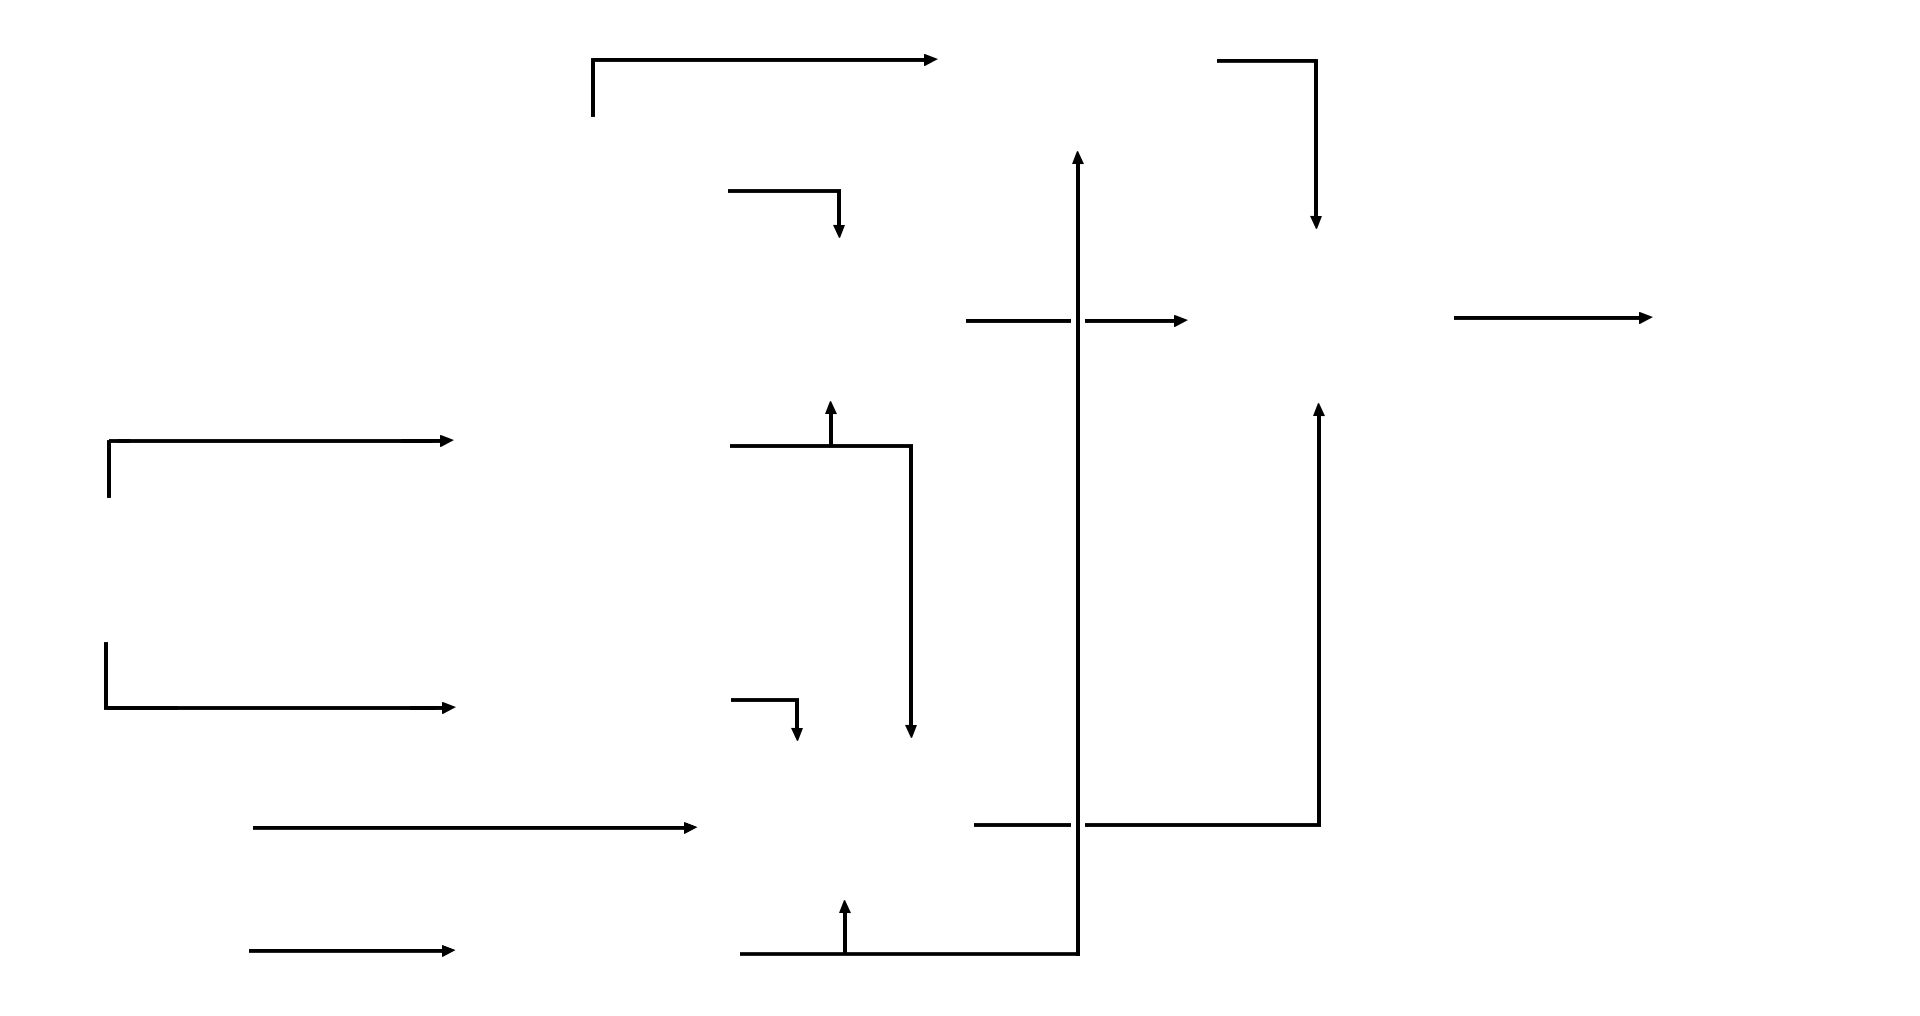
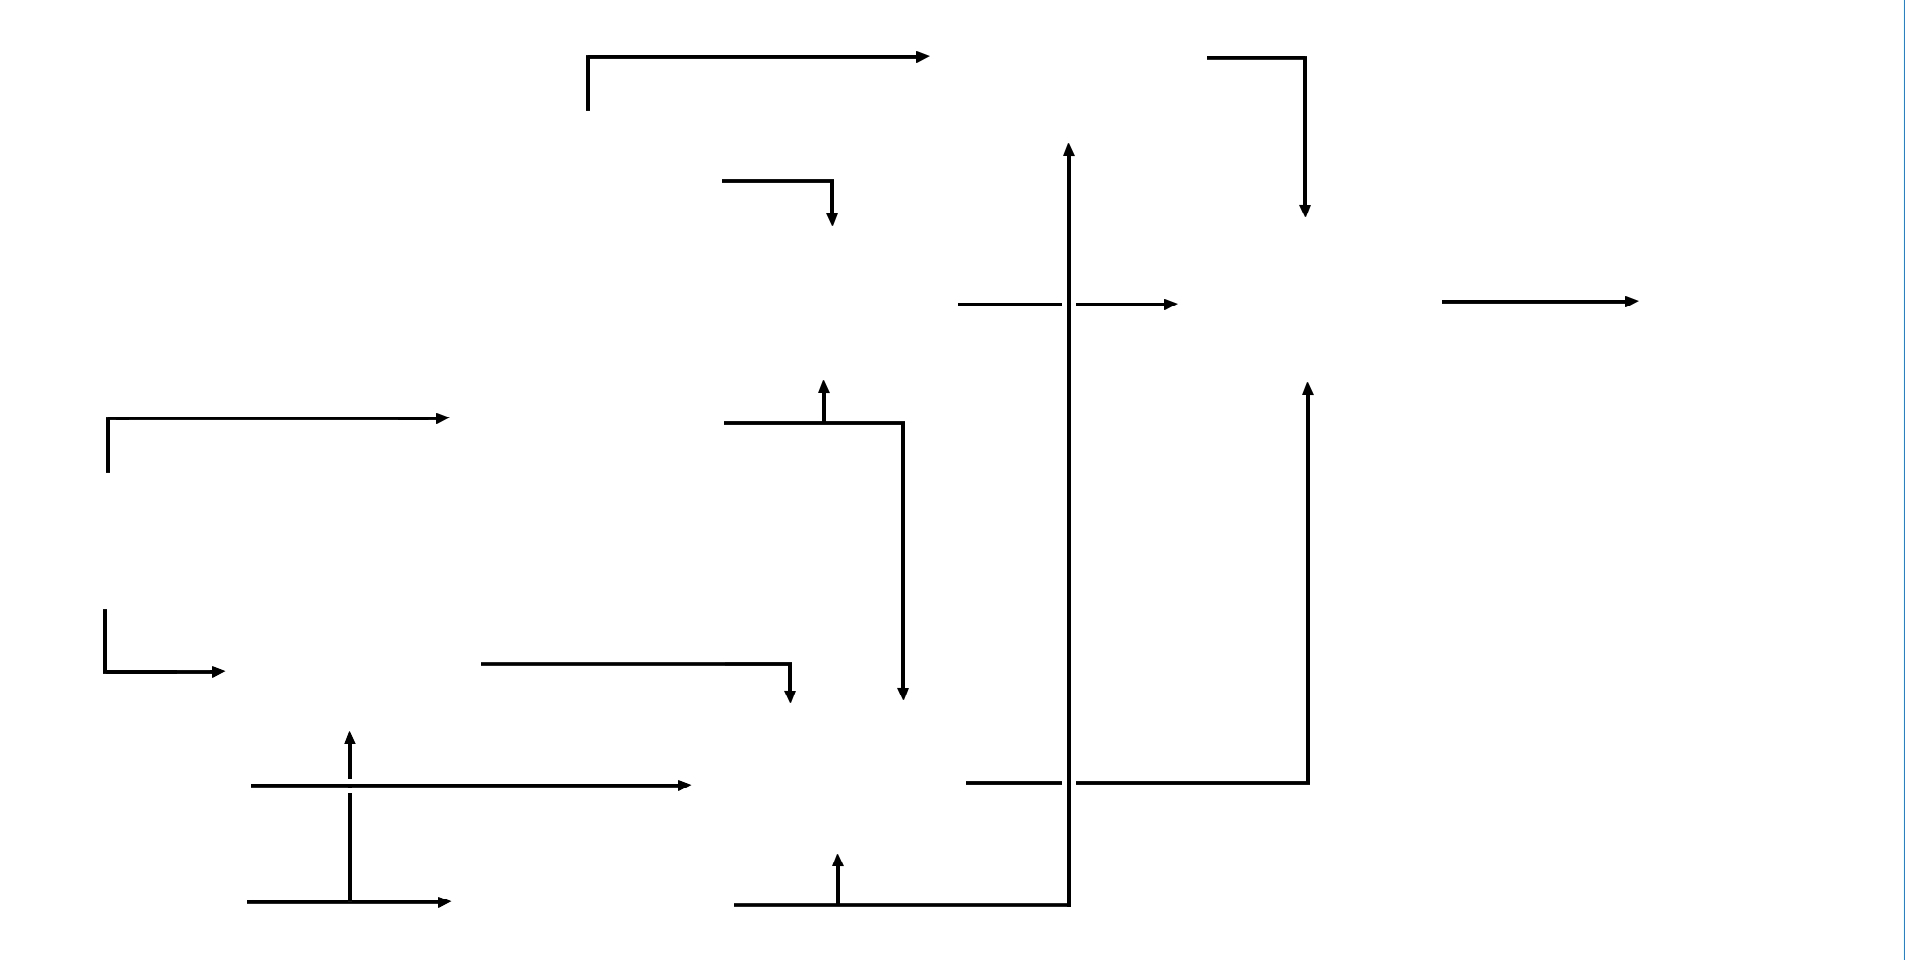
correction du workflow (critères prédecesseur de scénarios génériques)

diff --git a/src/abstraction/modules/SourcesDeMenaces.java b/src/abstraction/modules/SourcesDeMenaces.java
@@ -50,12 +50,6 @@ public class SourcesDeMenaces extends Module {
 	 */
 	public SourcesDeMenaces(){
 		super("SourcesDeMenaces");
-		//TODO commente pour faire des test, a decommenter par la suite
-		
-//		this.successeurs.add(this.getEtude().getModule("ScenariosDeMenacesGeneriques"));
-//		this.successeurs.add(this.getEtude().getModule("ScenariosDeMenacesTypes"));
-//		this.successeurs.add(this.getEtude().getModule("AnalyseDesRisques"));
-//		this.successeurs.add(this.getEtude().getModule("MatriceDesRisques"));
 		this.cree = false;
 		this.coherent = false;
 		this.disponible = false;

diff --git a/src/presentation/Workflow.java b/src/presentation/Workflow.java
@@ -121,8 +121,8 @@ public class Workflow extends JPanel {
 
 		//6eme ligne
 		this.add(new JLabel());
-		this.add(new JLabel());
 		this.add(lesBoutons.get("ScenariosDeMenacesGeneriques"));		
+		this.add(new JLabel());
 		this.add(new JLabel());
 		this.add(new JLabel());
 		this.add(new JLabel());
